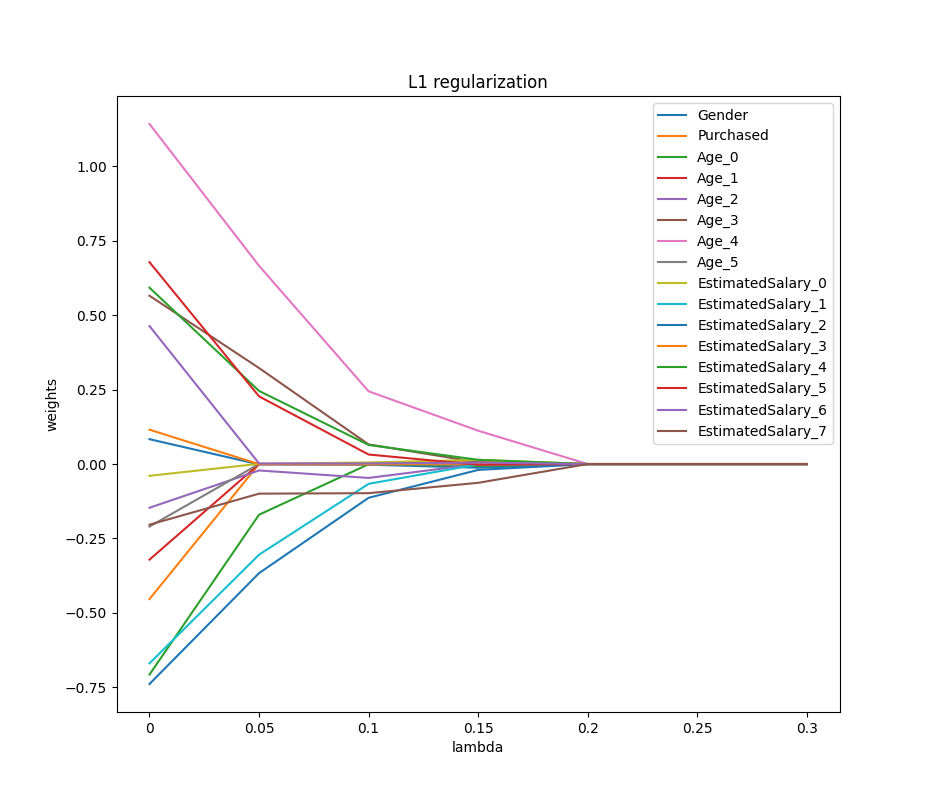
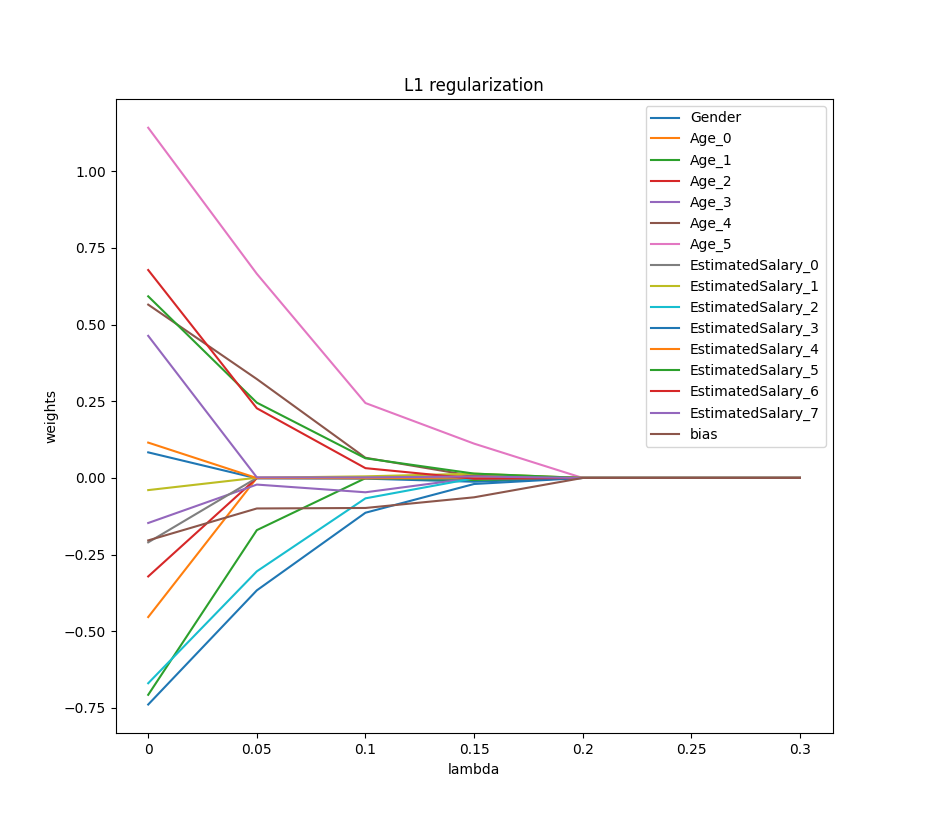
finished code

diff --git a/homework/homework6/code/Dataloader.py b/homework/homework6/code/Dataloader.py
@@ -44,14 +44,15 @@ class DataLoader:
         self.data['EstimatedSalary'] = pd.cut(self.data['EstimatedSalary'], bins=[0, 19500, 40000, 60000, 80000, 100000, 130000, 145000, 200000], labels=[0, 1, 2, 3, 4, 5, 6, 7])
         self.data = pd.get_dummies(self.data, columns=['EstimatedSalary'], dtype=int)
 
-        # get the column names
-        self.column_names = self.data.columns
-
         # add a bias term
         self.data['bias'] = 1
 
         # modify Purchased to +1 and -1(0 -> -1)
         self.data['Purchased'] = self.data['Purchased'].map({0 : -1, 1 : 1})
+        
+        # get the column names
+        self.column_names = self.data.columns.drop('Purchased')
+
 
     def split_data(self):
         training_rate = 0.7
